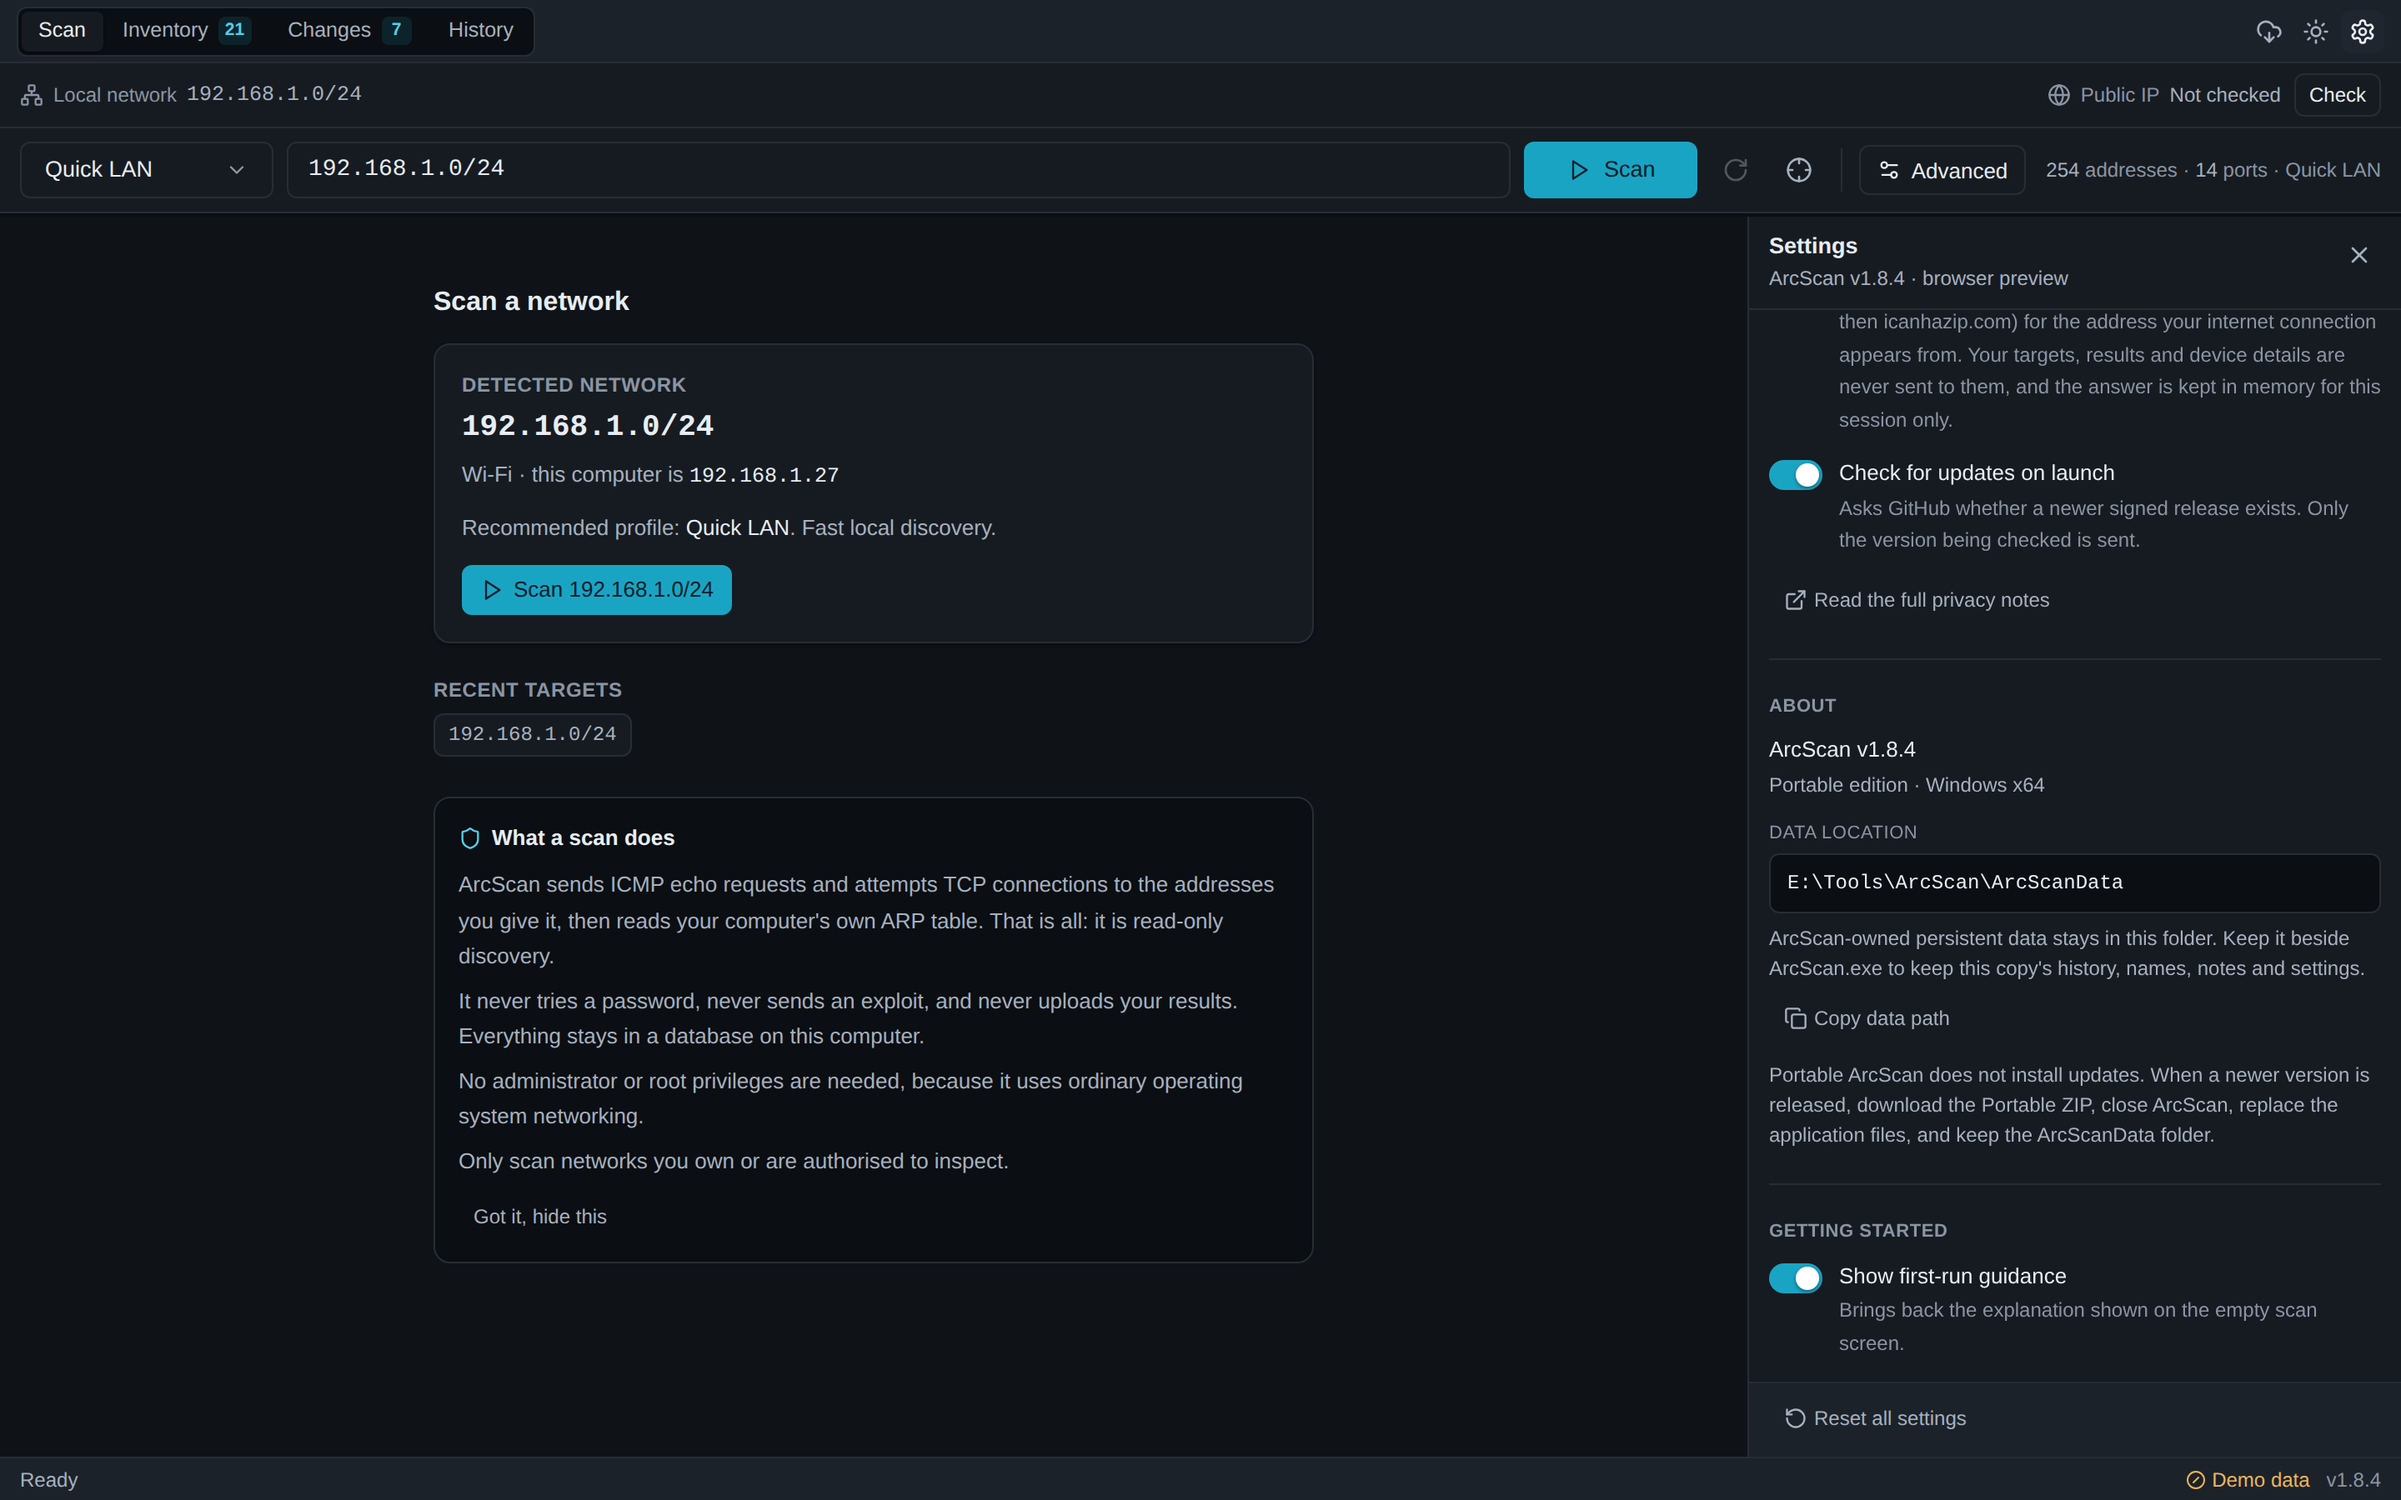
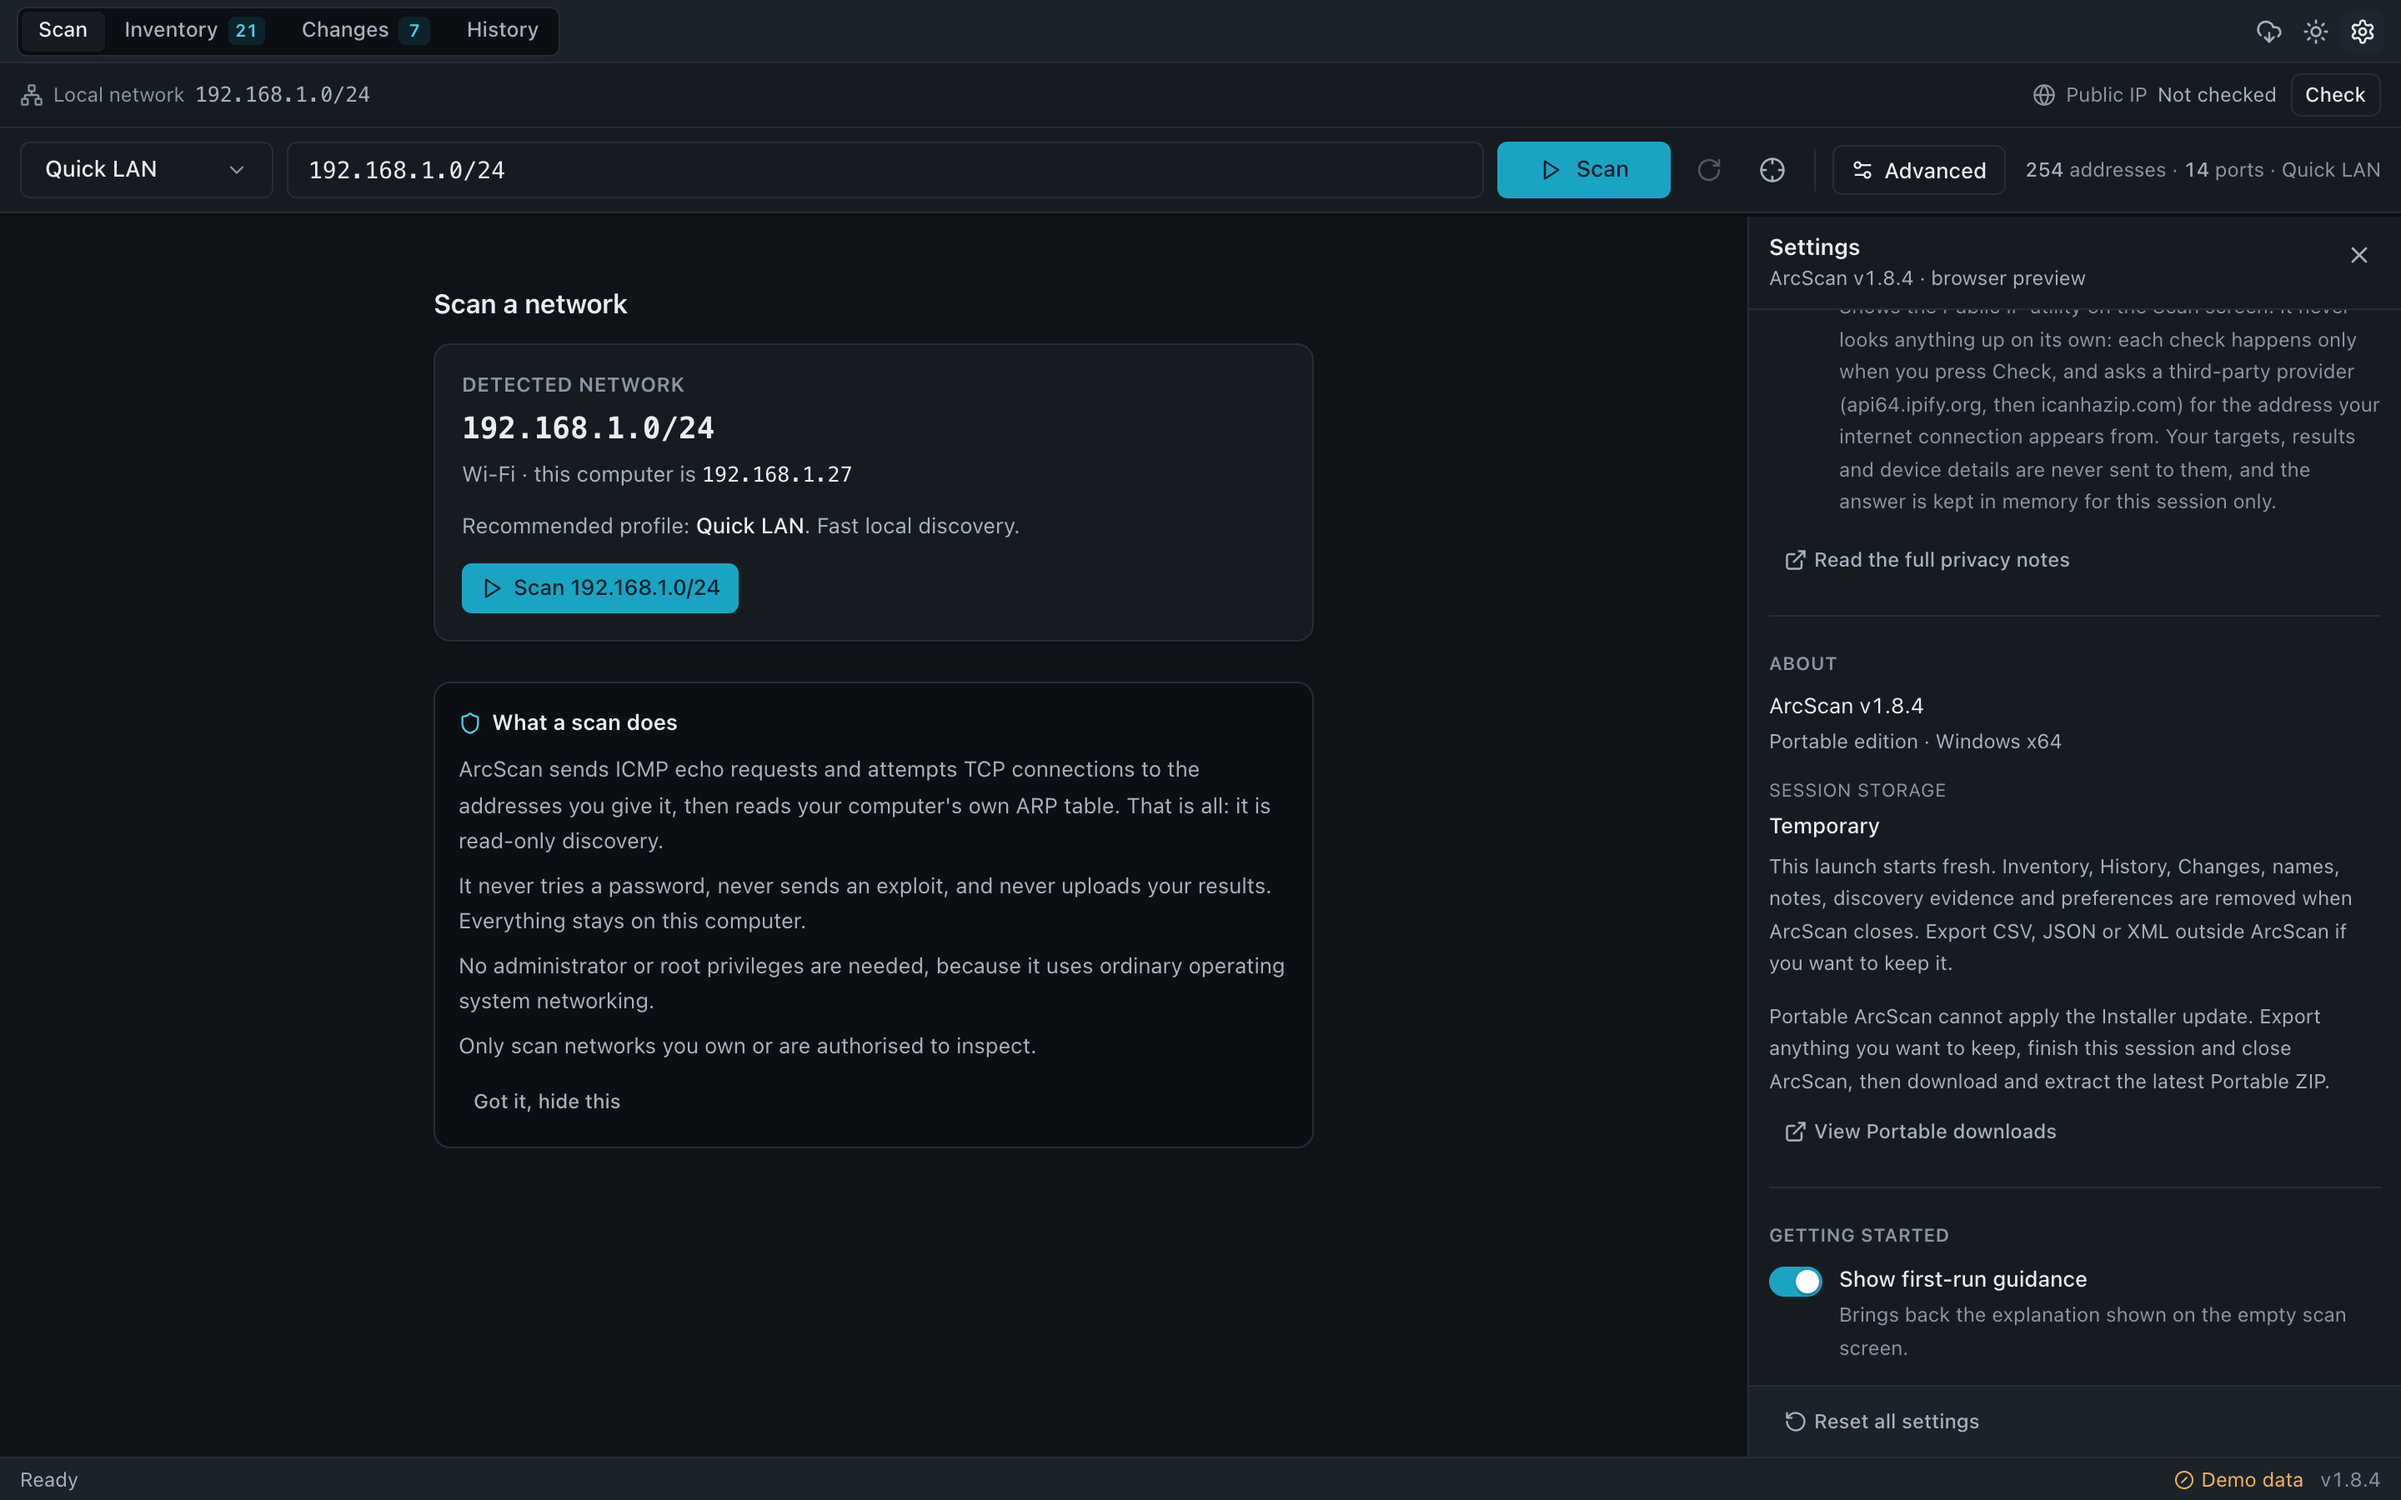
Verify and document Portable session UX

diff --git a/src/components/ScanStart.tsx b/src/components/ScanStart.tsx
@@ -132,7 +132,7 @@ export function ScanStart({
               </li>
               <li>
                 It never tries a password, never sends an exploit, and never uploads your results.
-                Everything stays in a database on this computer.
+                Everything stays on this computer.
               </li>
               <li>
                 No administrator or root privileges are needed, because it uses ordinary operating

diff --git a/src/App.tsx b/src/App.tsx
@@ -272,7 +272,7 @@ export default function App() {
         if (adopted > 0) {
           toast.info(
             `Brought across ${adopted} device ${adopted === 1 ? "name" : "names"} from your previous version.`,
-            { detail: "They are stored with the device inventory now, so they survive a reinstall." },
+            { detail: "They are stored with the device inventory now." },
           );
         }
       })
